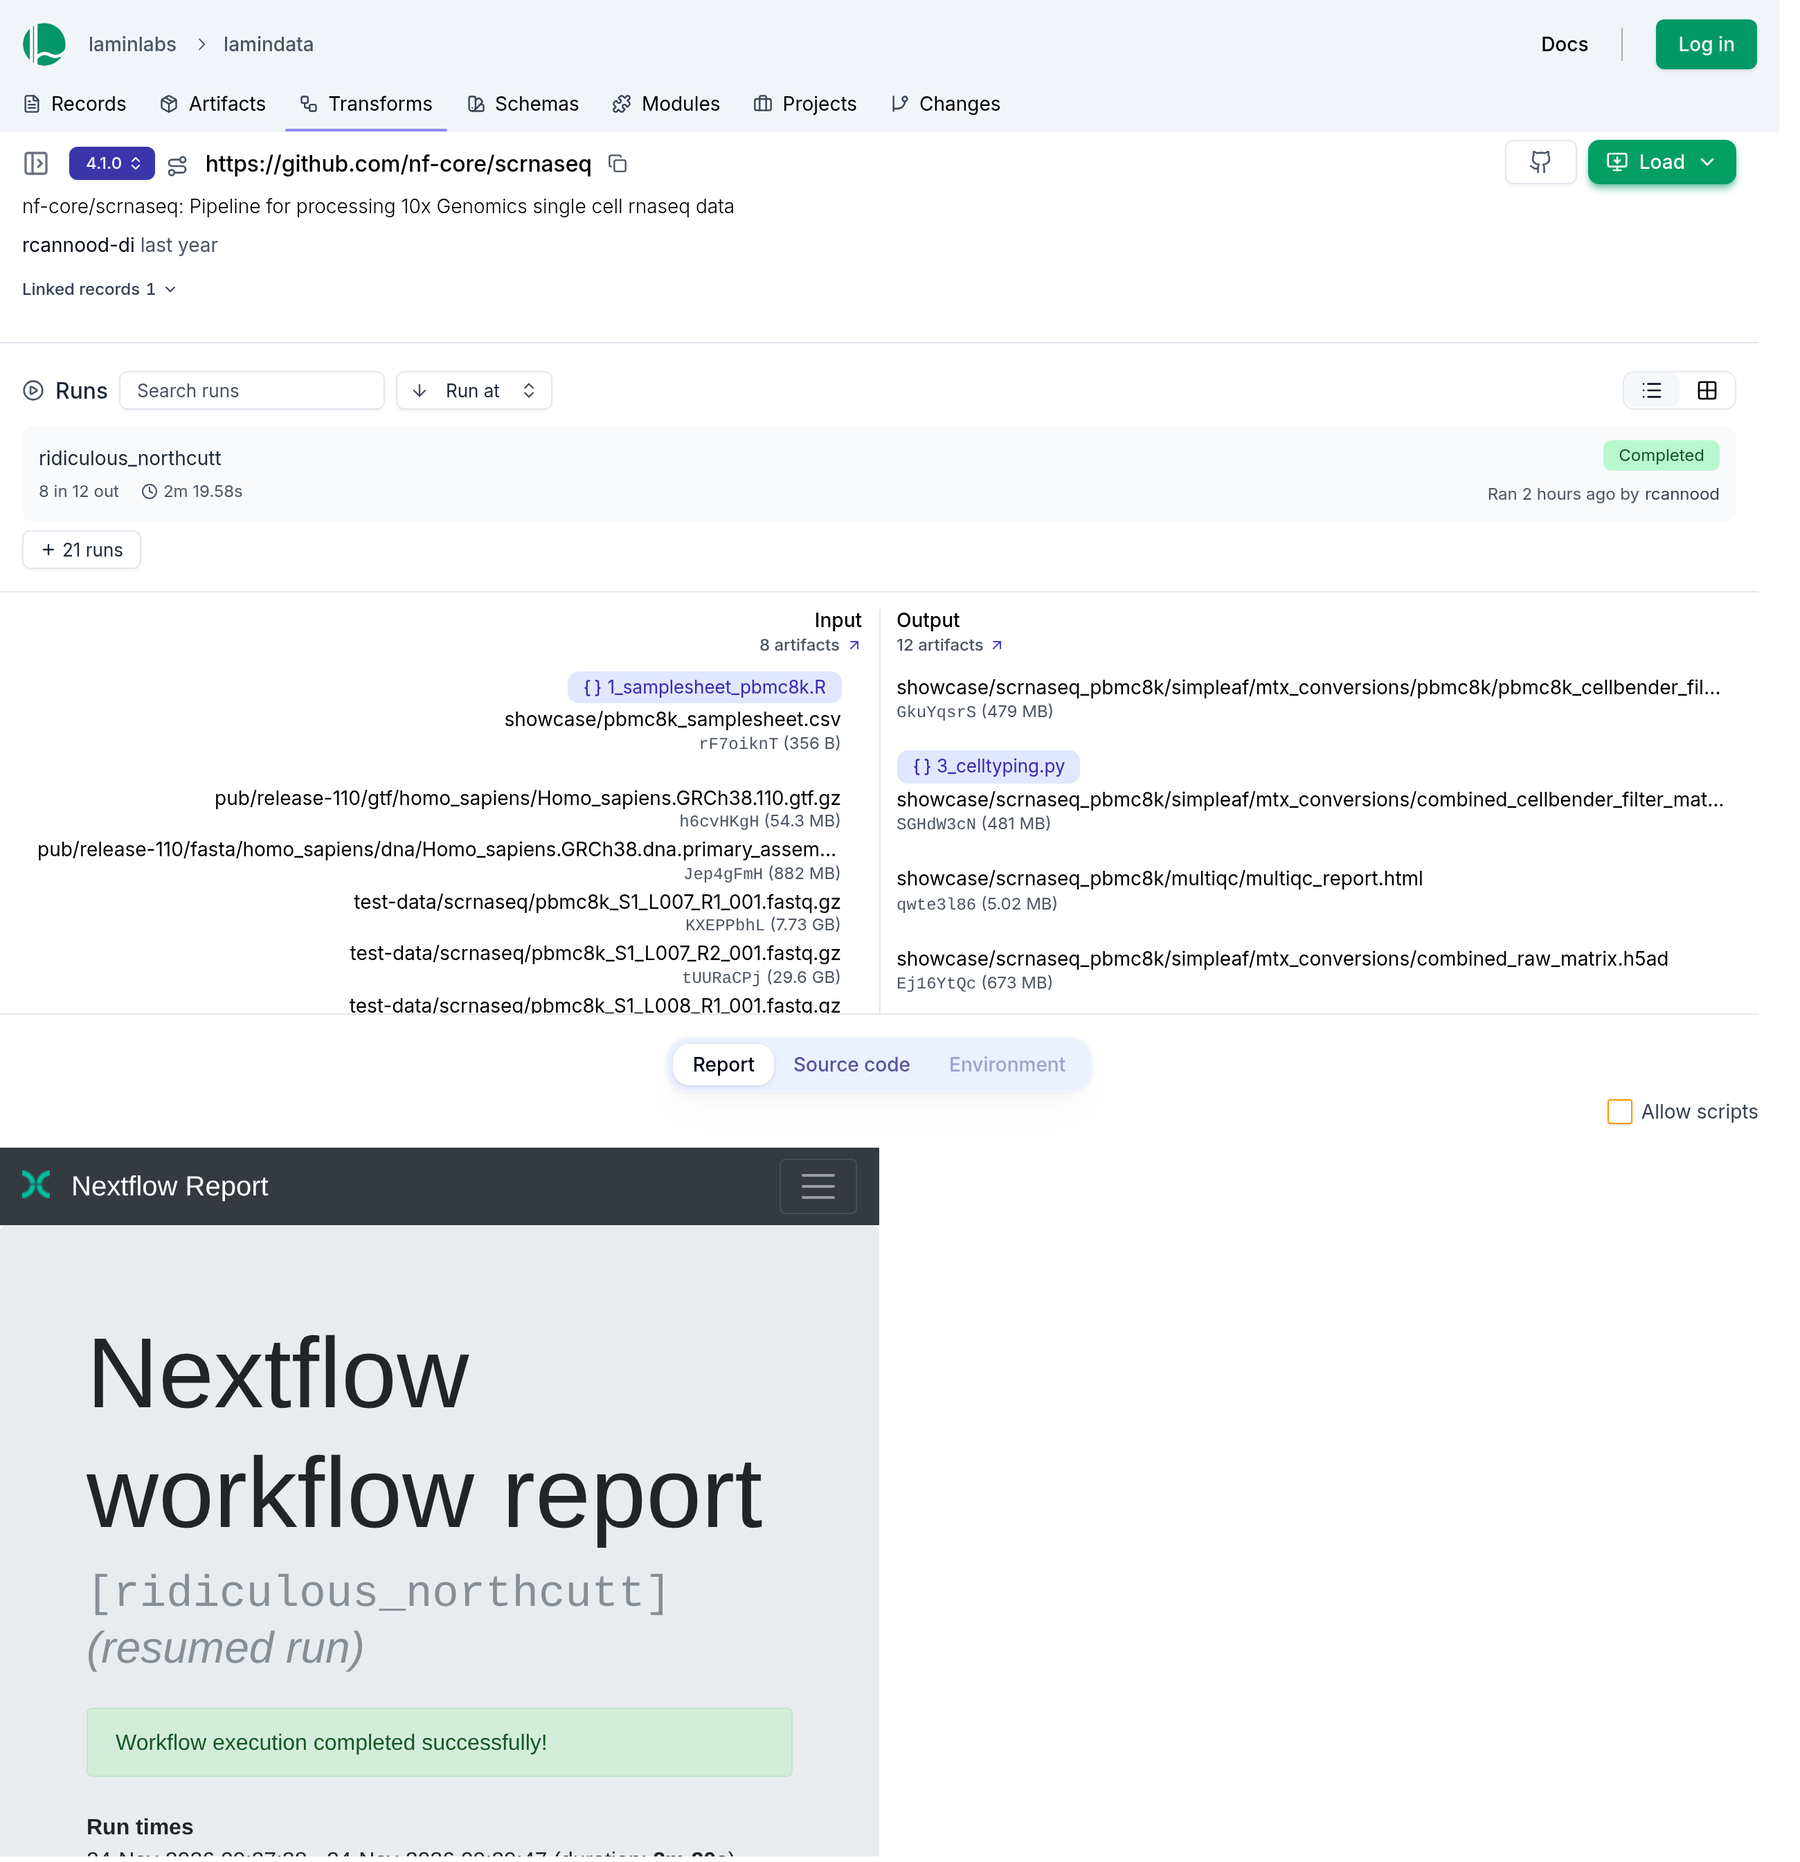
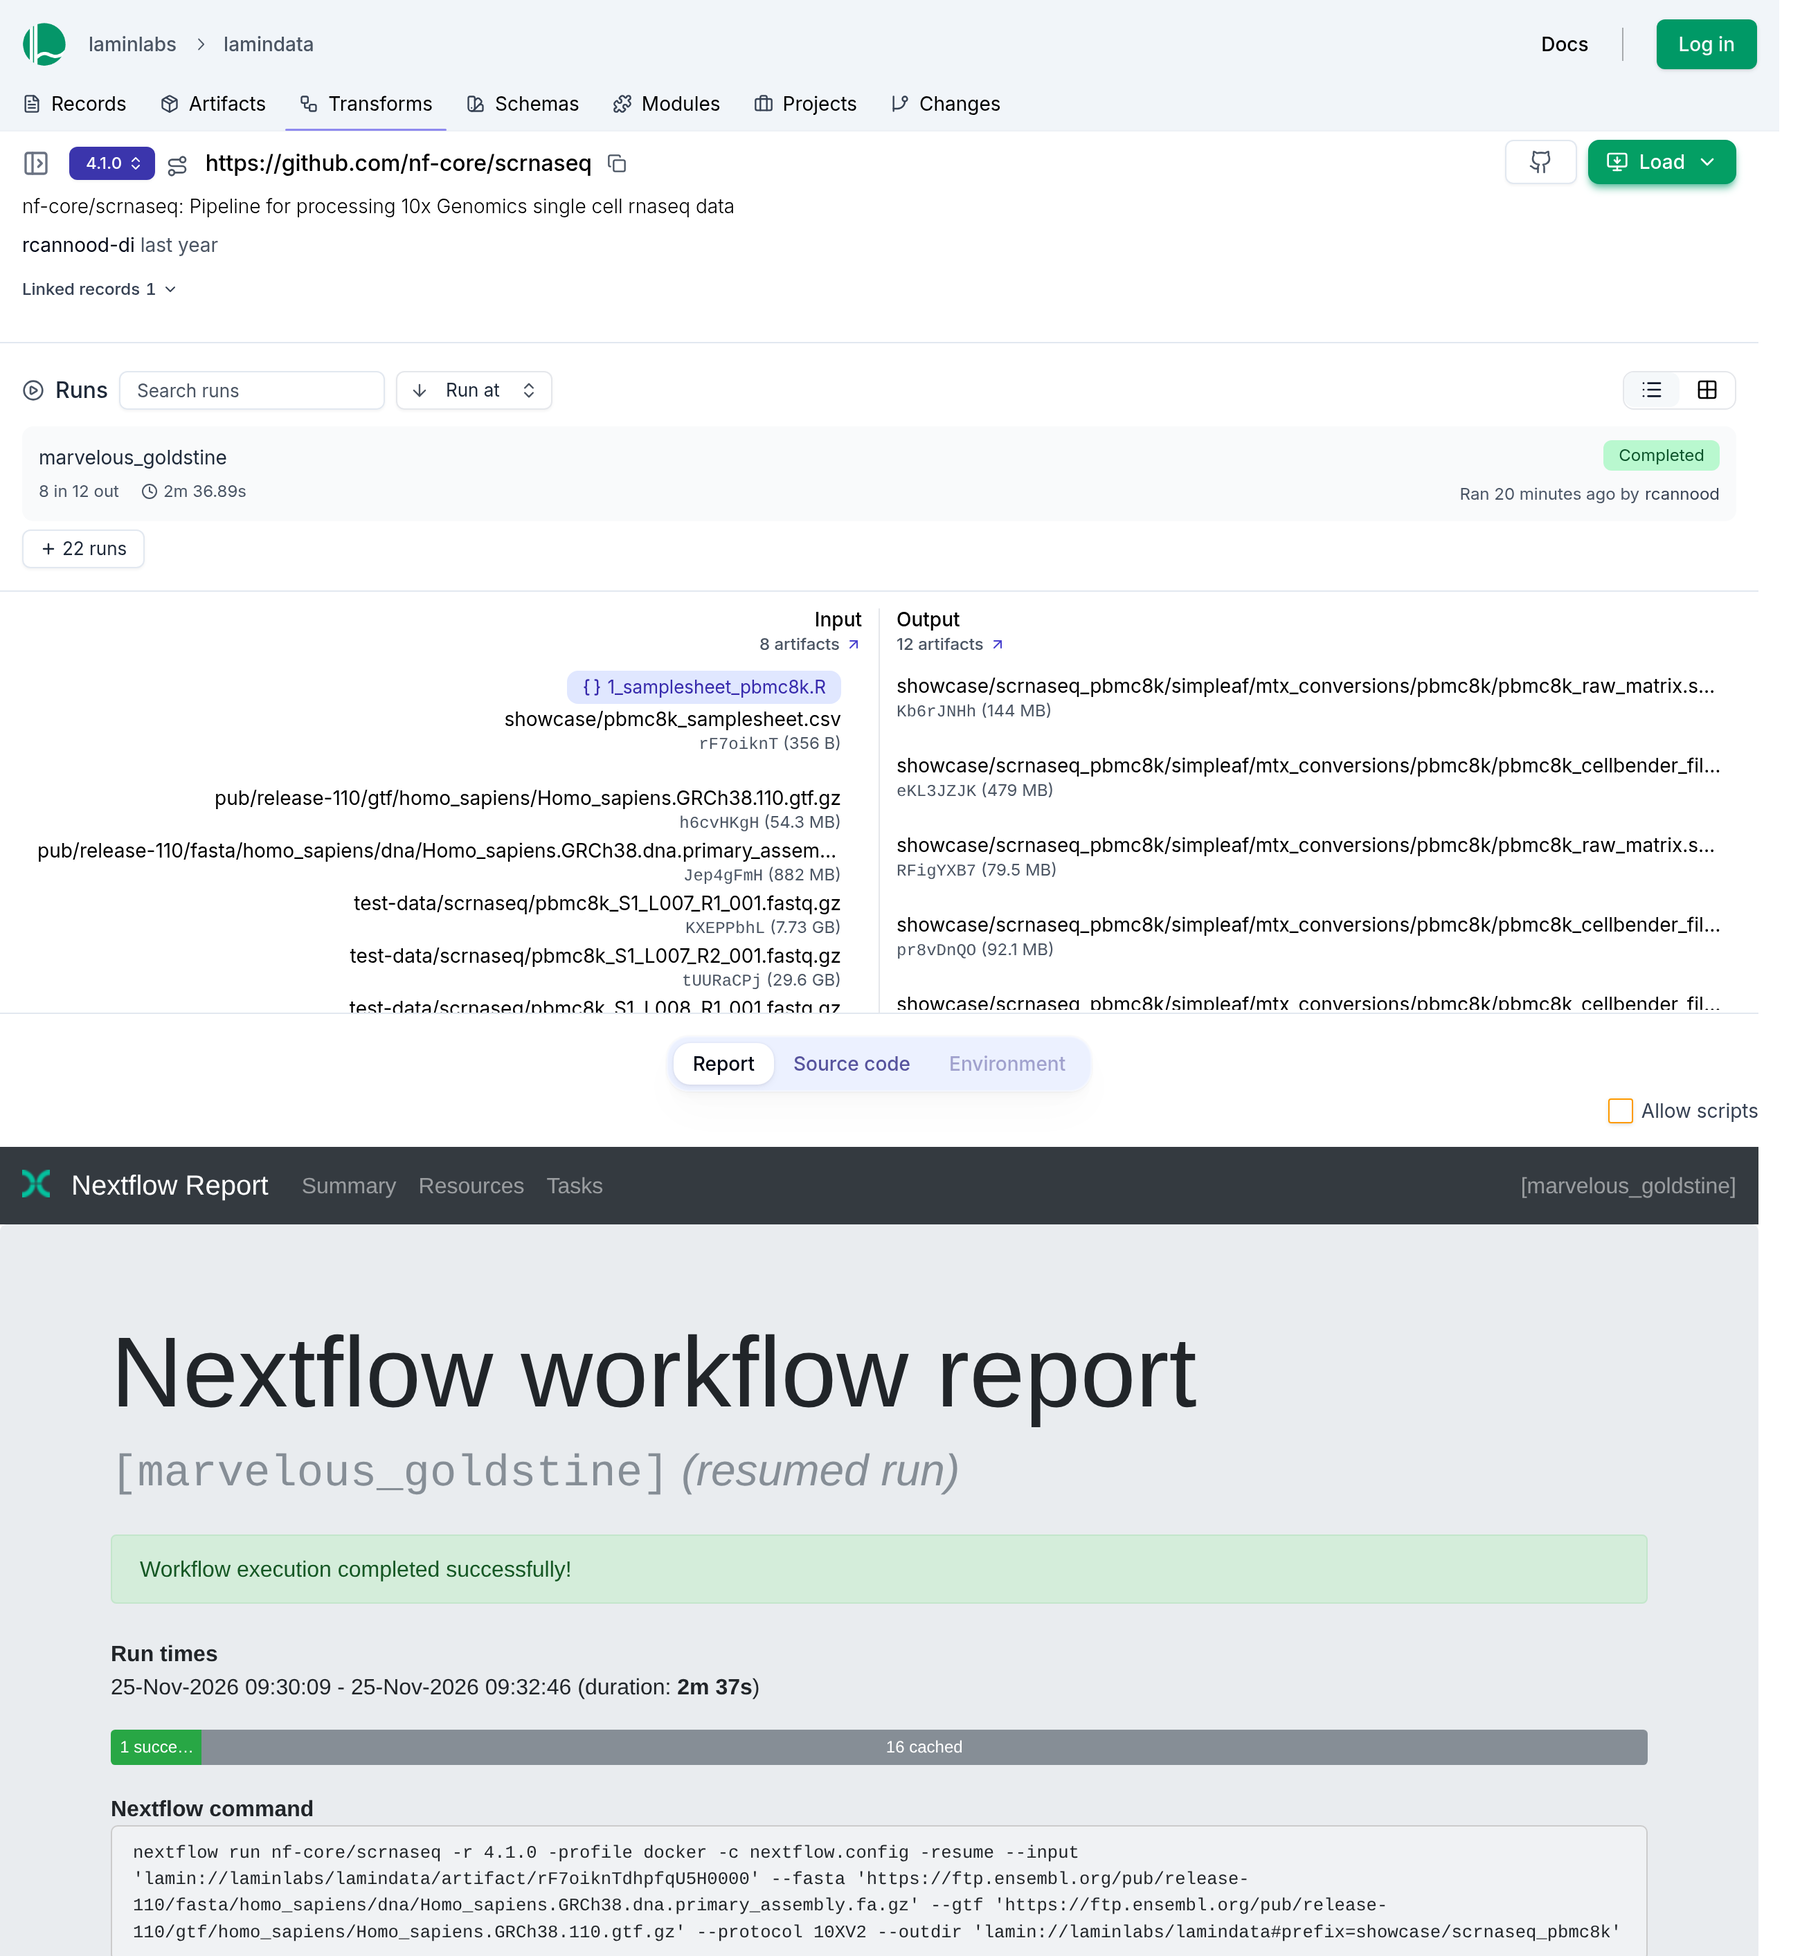
♻ Rerun showcase with a lamin:// output dir

diff --git a/docs/nf-lamin.md b/docs/nf-lamin.md
@@ -156,10 +156,10 @@ nextflow run nf-core/scrnaseq \
   --fasta    https://ftp.ensembl.org/pub/release-110/fasta/homo_sapiens/dna/Homo_sapiens.GRCh38.dna.primary_assembly.fa.gz \
   --gtf      https://ftp.ensembl.org/pub/release-110/gtf/homo_sapiens/Homo_sapiens.GRCh38.110.gtf.gz \
   --protocol 10XV2 \
-  --outdir   s3://my-bucket/scrnaseq_showcase
+  --outdir   'lamin://laminlabs/lamindata#prefix=showcase/scrnaseq_pbmc8k'
 ```
 
-This run mixes both ways of addressing data. The sample sheet is referenced by its `uid`, the FASTQs it lists are plain `s3://` paths, the reference is a plain Ensembl `https://` URL, and the outputs go to an `s3://` bucket. `nf-lamin` links all of the inputs to the run as input artifacts, so the FASTQs and the reference show up in the lineage even though they never lived in LaminDB.
+This run mixes both ways of addressing data. The sample sheet is referenced by its `uid`, the FASTQs it lists are plain `s3://` paths, the reference is a plain Ensembl `https://` URL, and the outputs are published into the storage of `laminlabs/lamindata`. `nf-lamin` links all of the inputs to the run as input artifacts, so the FASTQs and the reference show up in the lineage even though they never lived in LaminDB.
 
 A `scrnaseq` run writes many files, so this config excludes everything by default and opts back in to the combined count matrix and the MultiQC report:
 
@@ -213,7 +213,7 @@ from celltypist import models
 ln.track()
 
 # the combined count matrix registered by nf-lamin during the run
-adata = ln.Artifact.get("SGHdW3cN3QXHJJCz").load()
+adata = ln.Artifact.get("5usKAo9edoKsMrh5").load()
 
 # celltypist expects log1p-normalised counts and gene symbols as var_names
 adata.var_names = adata.var["gene_symbol"].astype(str)
@@ -266,7 +266,7 @@ artifact$view_lineage()
 :alt: The full cross-language lineage of showcase/pbmc8k_celltyped.h5ad on LaminHub
 :width: 700px
 :align: center
-:target: https://lamin.ai/laminlabs/lamindata/artifact/JvUll5j4iQDhTobi0000
+:target: https://lamin.ai/laminlabs/lamindata/artifact/GWxjro1eLIeJBjwX0000
 :::
 
 Every node in this graph lives in `laminlabs/lamindata`:
@@ -274,33 +274,32 @@ Every node in this graph lives in `laminlabs/lamindata`:
 | Step | Run | Output artifact |
 | --- | --- | --- |
 | 1. Sample sheet (R) | [run](https://lamin.ai/laminlabs/lamindata/run/lImad5Q6qnIPcTAE) | [`showcase/pbmc8k_samplesheet.csv`](https://lamin.ai/laminlabs/lamindata/artifact/rF7oiknTdhpfqU5H0000) |
-| 2. Pipeline (Nextflow) | [run](https://lamin.ai/laminlabs/lamindata/run/PXe4TYRvVNcRstzl) | [combined count matrix](https://lamin.ai/laminlabs/lamindata/artifact/SGHdW3cN3QXHJJCz0000) |
-| 3. Cell typing (Python) | [run](https://lamin.ai/laminlabs/lamindata/run/Nsr6zK1Tqox0EX57) | [`showcase/pbmc8k_celltyped.h5ad`](https://lamin.ai/laminlabs/lamindata/artifact/JvUll5j4iQDhTobi0000) |
+| 2. Pipeline (Nextflow) | [run](https://lamin.ai/laminlabs/lamindata/run/XQYuAkIYyecNSpcf) | [combined count matrix](https://lamin.ai/laminlabs/lamindata/artifact/5usKAo9edoKsMrh50000) |
+| 3. Cell typing (Python) | [run](https://lamin.ai/laminlabs/lamindata/run/RF4VGaUDcll78JFm) | [`showcase/pbmc8k_celltyped.h5ad`](https://lamin.ai/laminlabs/lamindata/artifact/GWxjro1eLIeJBjwX0000) |
 
-Opening the `nf-core/scrnaseq` node lands on the [pipeline run](https://lamin.ai/laminlabs/lamindata/run/PXe4TYRvVNcRstzl): the exact pipeline revision, the inputs it read, the outputs it published, and the Nextflow execution report. nf-core pipelines write that report by default, and `nf-lamin` attaches it to the run.
+Opening the `nf-core/scrnaseq` node lands on the [pipeline run](https://lamin.ai/laminlabs/lamindata/run/XQYuAkIYyecNSpcf): the exact pipeline revision, the inputs it read, the outputs it published, and the Nextflow execution report. nf-core pipelines write that report by default, and `nf-lamin` attaches it to the run.
 
 :::{figure} _static/nf-lamin/run.png
 :alt: The nf-core/scrnaseq run on LaminHub, with its inputs, outputs and Nextflow execution report
 :width: 700px
 :align: center
-:target: https://lamin.ai/laminlabs/lamindata/run/PXe4TYRvVNcRstzl
+:target: https://lamin.ai/laminlabs/lamindata/run/XQYuAkIYyecNSpcf
 :::
 
 ## Trying it out
 
-The complete, runnable version of this walkthrough -- samplesheet script, `nextflow.config` & cell typing script -- lives at [github.com/rcannood/showcase-nf-lamin](https://github.com/rcannood/showcase-nf-lamin). You'll need Nextflow and Docker, R with `laminr`, and Python with `lamindb`, `scanpy` & `celltypist`. To run it against your own LaminDB instance, set three environment variables and run the three steps:
+The complete, runnable version of this walkthrough -- samplesheet script, `nextflow.config` & cell typing script -- lives at [github.com/rcannood/showcase-nf-lamin](https://github.com/rcannood/showcase-nf-lamin). You'll need Nextflow and Docker, R with `laminr`, and Python with `lamindb`, `scanpy` & `celltypist`. To run it against your own LaminDB instance, set two environment variables and run the three steps:
 
 ```bash
 export LAMIN_API_KEY=...
 export LAMIN_CURRENT_INSTANCE=my-org/my-instance
-export OUTDIR=s3://my-bucket/showcase/scrnaseq_pbmc8k
 
 ./1_samplesheet_pbmc8k.R  # registers the sample sheet
 ./2_run.sh                # runs nf-core/scrnaseq on it
 ./3_celltyping.py         # assigns cell types to the count matrix
 ```
 
-`laminr`, `lamindb` & `nf-lamin` all read the instance and the API key from these variables, so none of the scripts needs editing.
+`laminr`, `lamindb` & `nf-lamin` all read the instance and the API key from these variables, and the pipeline outputs are published into the instance's storage, so none of the scripts needs editing.
 
 ## Code & data availability
 
